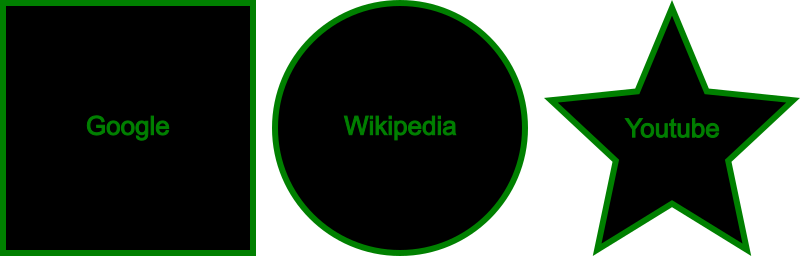
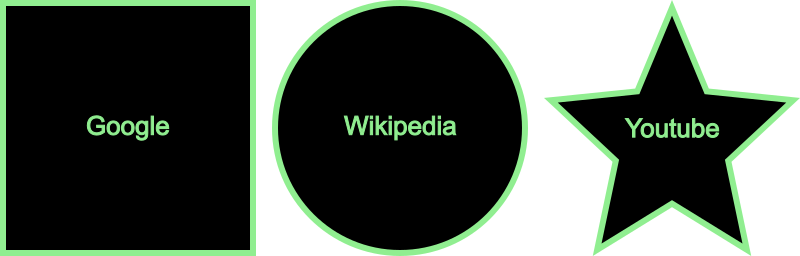
Cambio de colores para mejor Accesibilidad.

diff --git a/^MF0950-UF1302/html/Apartado425.html b/^MF0950-UF1302/html/Apartado425.html
@@ -38,7 +38,7 @@
 		<h1>Identificación de los componentes que proporciona la herramienta Web.</h1>
 	</header>
 	<main>
-		<div style="background: black; color: lightgreen; padding: 6px 18px;">
+		<section>
 			<h2>Apartado 4.2.5.</h2>
 			<p>Las barras de herramientas son fundamentales para la navegación por cualquier herramienta. Normalmente aparecen en la pantalla como una fila, columna o bloque que presenta botones o iconos permitiendo al usuario/a clicar sobre los botones para acceder
 				a las distintas funciones.</p>
@@ -68,28 +68,28 @@
 							<ul>
 								<li>Ir al menú de Ayuda</li>
 								<li>Seleccionar Documentación</li>
-								<li>Redirige a esta página: <a href="https://code.visualstudio.com/docs#vscode" style="color: lightblue;" title="Documentation for Visual Studio Code">Documentation for Visual Studio Code</a></li>
+								<li>Redirige a esta página: <a href="https://code.visualstudio.com/docs#vscode" title="Documentation for Visual Studio Code">Documentation for Visual Studio Code</a></li>
 							</ul>
 						</li>
 						<li>keyboard-shortcuts-windows
 							<ul>
 								<li>Ir al menú de Ayuda</li>
 								<li>Seleccionar Referencia de métodos abreviados de teclado</li>
-								<li>Redirige a esta página: <a href="https://code.visualstudio.com/shortcuts/keyboard-shortcuts-windows.pdf" style="color: lightblue;" title="keyboard-shortcuts-windows.pdf">keyboard-shortcuts-windows.pdf</a></li>
+								<li>Redirige a esta página: <a href="https://code.visualstudio.com/shortcuts/keyboard-shortcuts-windows.pdf" title="keyboard-shortcuts-windows.pdf">keyboard-shortcuts-windows.pdf</a></li>
 							</ul>
 						</li>
 						<li>Visual Studio Code Tips and Tricks
 							<ul>
 								<li>Ir al menú de Ayuda</li>
 								<li>Seleccionar Consejos y trucos</li>
-								<li>Redirige a esta página: <a href="https://code.visualstudio.com/docs/getstarted/tips-and-tricks#vscode" style="color: lightblue;" title="Visual Studio Code Tips and Tricks">Visual Studio Code Tips and Tricks</a></li>
+								<li>Redirige a esta página: <a href="https://code.visualstudio.com/docs/getstarted/tips-and-tricks#vscode" title="Visual Studio Code Tips and Tricks">Visual Studio Code Tips and Tricks</a></li>
 							</ul>
 						</li>
 						<li>Visual Studio Code Introductory Videos
 							<ul>
 								<li>Ir al menú de Ayuda</li>
 								<li>Seleccionar Tutoriales de vídeo</li>
-								<li>Redirige a esta página:<a href="https://code.visualstudio.com/docs/getstarted/introvideos#VSCode" style="color: lightblue;" title="Visual Studio Code Introductory Videos">Visual Studio Code Introductory Videos</a></li>
+								<li>Redirige a esta página: <a href="https://code.visualstudio.com/docs/getstarted/introvideos#VSCode" title="Visual Studio Code Introductory Videos">Visual Studio Code Introductory Videos</a></li>
 							</ul>
 						</li>
 					</ol>
@@ -98,7 +98,7 @@
 			<p></p>
 			<h3>Actividad asociada al CE2.2:</h3>
 			<p>Interpretar la documentación técnica que proporciona la herramienta de edición, incluso si está editada en la lengua extranjera de uso más frecuente en el sector, para utilizarla de ayuda en la realización de páginas web, de acuerdo a las especificaciones técnicas de las mismas. ✓</p>
-		</div>
+		</section>
 	</main>
 	<footer>
 		<span><span>&copy;</span> Marco Antonio Arias Antolín. 2023</span>

diff --git a/^MF0950-UF1302/html/css/style417.css b/^MF0950-UF1302/html/css/style417.css
@@ -1,5 +1,5 @@
 :root {
[2 lines of base64/hex data omitted]
 }
 
 input[name=modalImages] {
@@ -23,7 +23,7 @@ label[for=contenido] {
 }
 
 #imagenesCompletas {
-	background: black;
+	background: var(--bg);
 	inset: 0;
 	position: fixed;
 	z-index: -1;

diff --git a/index.html b/index.html
@@ -66,8 +66,8 @@
 		}
 
 		nav li {
-			background: lightgrey;
-			border: 2px solid green;
+			background: var(--bg);
+			border: 2px solid var(--color);
 		}
 
 		nav a {
@@ -101,9 +101,7 @@
 		<iframe src="about:blank" name="iframe1" id="iframe1"></iframe>
 	</main>
 	<footer>
-		<span>
-			<span><span>&copy;</span> Marco Antonio Arias Antolín. 2023</span>
-		</span>
+		<span><span>&copy;</span> Marco Antonio Arias Antolín. 2023</span>
 	</footer>
 </body>
 

diff --git a/^MF0950-UF1302/html/css/style125.css b/^MF0950-UF1302/html/css/style125.css
@@ -6,7 +6,9 @@ nav ul {
 }
 
 nav li {
-	background: rgba(200, 200, 200, .6);
+	border: 2px solid var(--color);
+	font-size: larger;
+	font-weight: bolder;
 	list-style: none;
 	margin: 0 2px;
 	padding: 6px;
@@ -14,8 +16,16 @@ nav li {
 }
 
 nav li:hover {
-	background: rgba(200, 200, 200, .8);
+	background: var(--color);
 	transform: scale(1.1);
+}
+
+nav a {
+	text-decoration: none;
+}
+
+nav li:hover a {
+	color: var(--bg);
 }
 
 main {

diff --git a/^MF0950-UF1302/html/css/style.css b/^MF0950-UF1302/html/css/style.css
@@ -1,6 +1,8 @@
 :root {
 	--bg: black;
-	--color: green;
+	--color: lightgreen;
+	--link: lightblue;
+	--link-visited: violet;
 }
 
 html {
@@ -17,6 +19,14 @@ body {
 	min-height: 100vh;
 }
 
+a {
+	color: var(--link);
+}
+
+a:visited {
+	color: var(--link-visited);
+}
+
 header {
 	padding: 0 66px;
 }
@@ -27,7 +37,6 @@ main {
 	margin-bottom: 46px;
 	padding: 0 66px;
 }
-
 
 header,
 footer {

diff --git a/css/style.css b/css/style.css
@@ -1,6 +1,8 @@
 :root {
 	--bg: black;
-	--color: green;
+	--color: lightgreen;
+	--link: lightblue;
+	--link-visited: violet;
 }
 
 html {
@@ -17,6 +19,14 @@ body {
 	min-height: 100vh;
 }
 
+a {
+	color: var(--link);
+}
+
+a:visited {
+	color: var(--link-visited);
+}
+
 header {
 	padding: 0 66px;
 }
@@ -27,7 +37,6 @@ main {
 	margin-bottom: 46px;
 	padding: 0 66px;
 }
-
 
 header,
 footer {

diff --git a/^MF0950-UF1302/html/css/style1441.css b/^MF0950-UF1302/html/css/style1441.css
@@ -11,7 +11,7 @@ table {
 
 th,
 td {
-	border: 1px solid green;
+	border: 1px solid var(--color);
 	padding: 6px;
 }
 
@@ -60,7 +60,7 @@ td>ol>li>ol>li>ol {
 }
 
 #ejemplos {
-	border: 1px solid green;
+	border: 1px solid var(--color);
 	overflow: hidden;
 }
 

diff --git a/^MF0950-UF1302/html/js/script152iframes.js b/^MF0950-UF1302/html/js/script152iframes.js
@@ -5,7 +5,7 @@ onmessage = (event) => {
 	if (event.data == "CLARO") {
 		document.documentElement.style.color = "black";
 	} else {
-		document.documentElement.style.color = "green";
+		document.documentElement.style.color = "lightgreen";
 	}
 }
 /*

diff --git a/^MF0950-UF1302/html/css/style313.css b/^MF0950-UF1302/html/css/style313.css
@@ -40,7 +40,7 @@ td {
 
 .warning {
 	background: #faa;
-	color: black;
+	color: var(--bg);
 	padding: 6px 18px;
 }
 

diff --git a/^MF0950-UF1302/html/css/style241.css b/^MF0950-UF1302/html/css/style241.css
@@ -1,5 +1,5 @@
 :root {
-	--color: green;
+	--color: lightgreen;
 	--bg: black;
 	--bg-t: rgba(0, 255, 0, .06);
 }

diff --git a/^MF0950-UF1302/html/css/style152.css b/^MF0950-UF1302/html/css/style152.css
@@ -6,7 +6,7 @@ html {
 
 .temaOscuro {
 	background: black;
-	color: green;
+	color: lightgreen;
 }
 
 body {

diff --git a/^MF0950-UF1302/html/css/styleMenuH.css b/^MF0950-UF1302/html/css/styleMenuH.css
@@ -1,5 +1,5 @@
 :root {
-	--color: green;
+	--color: lightgreen;
 	--bg: black;
 }
 
